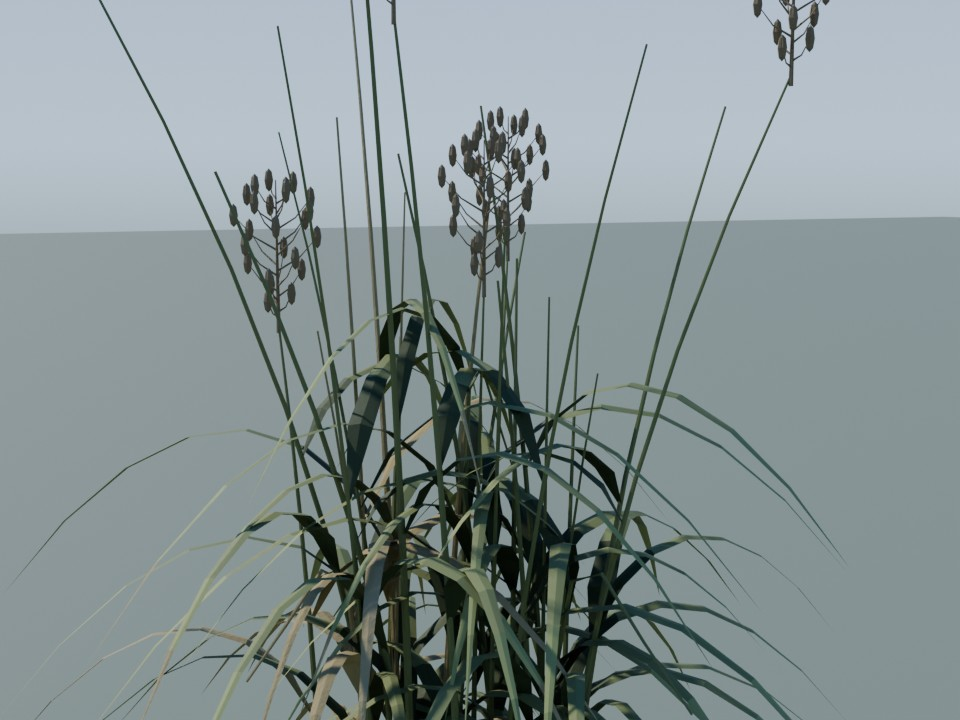
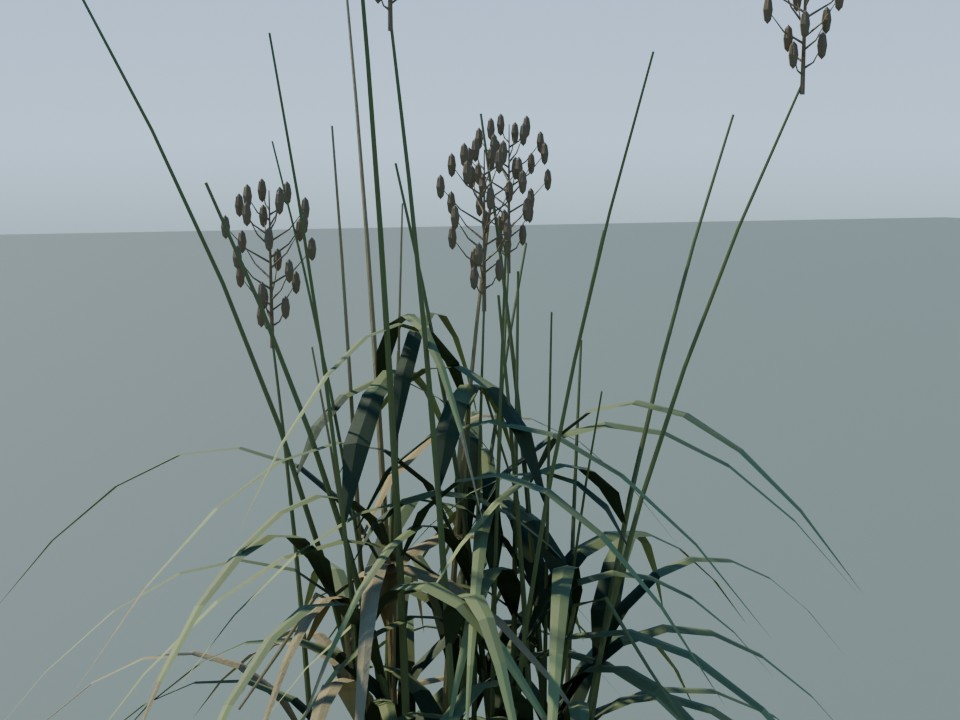
Keep drooping reed leaves within ground-depth limit

diff --git a/assets/vegetation/reed_cluster_a/build.py b/assets/vegetation/reed_cluster_a/build.py
@@ -147,7 +147,8 @@ def build():
             leaf_angle = angle+j*2.39996+rng.uniform(-.35, .35)
             outward = Vector((math.cos(leaf_angle), math.sin(leaf_angle), 0))
             length = rng.uniform(.40,.75)*(1-.25*t0)
-            points = [root+outward*(length*t**1.25)+UP*(length*(1.3*t-1.45*t*t)) for t in [k/7 for k in range(8)]]
+            droop = min(.15, max(0, (root.z+.015)/length))
+            points = [root+outward*(length*t**1.25)+UP*(length*(1.3*t-(1.3+droop)*t*t)) for t in [k/7 for k in range(8)]]
             blade(mesh, points, rng.uniform(.014,.025), UP.cross(outward), i%9 == 0, .25, i%3 == 0)
         if i in plumes and not broken:
             top = stem(1)
